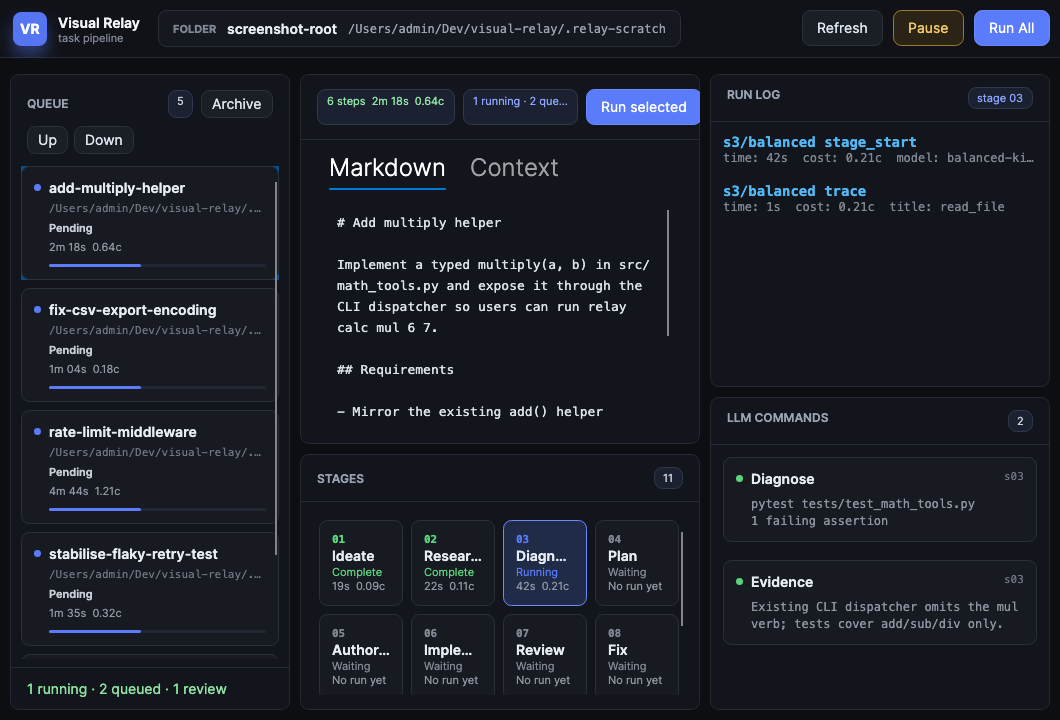
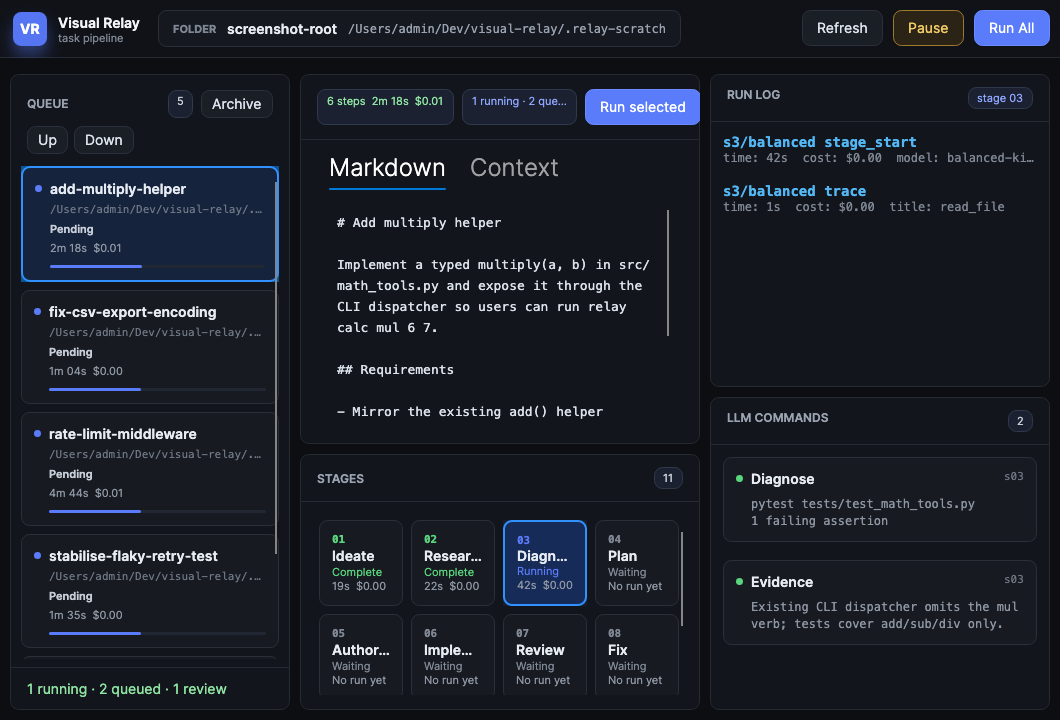
fix: clarify active states and dollar costs

diff --git a/tools/VisualRelay.Screenshots/Program.cs b/tools/VisualRelay.Screenshots/Program.cs
@@ -76,7 +76,7 @@ static MainWindowViewModel BuildViewModel()
     {
         RootPath = root,
         StatusText = "1 running · 2 queued · 1 review",
-        SelectedTaskMetricLabel = "6 steps  2m 18s  0.64c",
+        SelectedTaskMetricLabel = "6 steps  2m 18s  $0.01",
         LogScopeLabel = "stage 03"
     };
     var task = new RelayTaskItem("add-multiply-helper", taskPath, Path.GetDirectoryName(taskPath)!, false, [], CostUsd: 0.0064, DurationSeconds: 138, CompletedStageCount: 6);
@@ -93,16 +93,16 @@ static MainWindowViewModel BuildViewModel()
     viewModel.Stages[1].Status = "Done";
     viewModel.Stages[2].Status = "Running";
     viewModel.Stages[0].DurationLabel = "19s";
-    viewModel.Stages[0].CostLabel = "0.09c";
+    viewModel.Stages[0].CostLabel = "$0.00";
     viewModel.Stages[1].DurationLabel = "22s";
-    viewModel.Stages[1].CostLabel = "0.11c";
+    viewModel.Stages[1].CostLabel = "$0.00";
     viewModel.Stages[2].DurationLabel = "42s";
-    viewModel.Stages[2].CostLabel = "0.21c";
+    viewModel.Stages[2].CostLabel = "$0.00";
     viewModel.Stages[2].IsSelected = true;
     viewModel.Events.Add(new RelayEvent(DateTimeOffset.UtcNow, "info", "stage_start", "demo", root, task.Id, 3, "balanced",
-        Data: new Dictionary<string, string> { ["name"] = "Diagnose", ["model"] = "balanced-kimi", ["time"] = "42s", ["cost"] = "0.21c" }));
+        Data: new Dictionary<string, string> { ["name"] = "Diagnose", ["model"] = "balanced-kimi", ["time"] = "42s", ["cost"] = "$0.00" }));
     viewModel.Events.Add(new RelayEvent(DateTimeOffset.UtcNow.AddSeconds(-12), "info", "stage_done", "demo", root, task.Id, 2, "cheap",
-        Data: new Dictionary<string, string> { ["name"] = "Research", ["model"] = "cheap-kimi", ["time"] = "22s", ["cost"] = "0.11c" }));
+        Data: new Dictionary<string, string> { ["name"] = "Research", ["model"] = "cheap-kimi", ["time"] = "22s", ["cost"] = "$0.00" }));
     viewModel.Events.Add(new RelayEvent(DateTimeOffset.UtcNow.AddSeconds(-28), "info", "tests_written", "demo", root, task.Id, 5, "balanced"));
     viewModel.Events.Add(new RelayEvent(DateTimeOffset.UtcNow.AddSeconds(-36), "info", "plan_accepted", "demo", root, task.Id, 4, "balanced"));
     return viewModel;
@@ -123,7 +123,7 @@ static RelayTaskItem DemoTask(string root, string id, string? reviewReason = nul
 
 static void SeedTraceEntries(MainWindowViewModel viewModel)
 {
-    viewModel.SelectedTaskMetricLabel = "6 steps  2m 18s  0.64c";
+    viewModel.SelectedTaskMetricLabel = "6 steps  2m 18s  $0.01";
     viewModel.LogScopeLabel = "stage 03";
     foreach (var stage in viewModel.Stages)
     {
@@ -132,22 +132,22 @@ static void SeedTraceEntries(MainWindowViewModel viewModel)
 
     viewModel.Stages[0].Status = "Done";
     viewModel.Stages[0].DurationLabel = "19s";
-    viewModel.Stages[0].CostLabel = "0.09c";
+    viewModel.Stages[0].CostLabel = "$0.00";
     viewModel.Stages[1].Status = "Done";
     viewModel.Stages[1].DurationLabel = "22s";
-    viewModel.Stages[1].CostLabel = "0.11c";
+    viewModel.Stages[1].CostLabel = "$0.00";
     viewModel.Stages[2].Status = "Running";
     viewModel.Stages[2].DurationLabel = "42s";
-    viewModel.Stages[2].CostLabel = "0.21c";
+    viewModel.Stages[2].CostLabel = "$0.00";
     viewModel.Stages[2].IsSelected = true;
 
     var root = viewModel.RootPath;
     var taskId = viewModel.SelectedTask?.Id ?? "add-multiply-helper";
     viewModel.Events.Clear();
     viewModel.Events.Add(new RelayEvent(DateTimeOffset.UtcNow, "info", "stage_start", "demo", root, taskId, 3, "balanced",
-        Data: new Dictionary<string, string> { ["name"] = "Diagnose", ["model"] = "balanced-kimi", ["time"] = "42s", ["cost"] = "0.21c" }));
+        Data: new Dictionary<string, string> { ["name"] = "Diagnose", ["model"] = "balanced-kimi", ["time"] = "42s", ["cost"] = "$0.00" }));
     viewModel.Events.Add(new RelayEvent(DateTimeOffset.UtcNow.AddSeconds(-12), "info", "trace", "demo", root, taskId, 3, "balanced",
-        Data: new Dictionary<string, string> { ["title"] = "read_file", ["time"] = "1s", ["cost"] = "0.21c" }));
+        Data: new Dictionary<string, string> { ["title"] = "read_file", ["time"] = "1s", ["cost"] = "$0.00" }));
 
     viewModel.TraceEntries.Clear();
     viewModel.TraceEntries.Add(new TraceEntry(TraceEntryKind.ToolCall, "Diagnose", "pytest tests/test_math_tools.py\n1 failing assertion", 3));

diff --git a/src/VisualRelay.App/ViewModels/StageRowViewModel.cs b/src/VisualRelay.App/ViewModels/StageRowViewModel.cs
@@ -1,3 +1,4 @@
+using Avalonia;
 using Avalonia.Media;
 using VisualRelay.Domain;
 
@@ -10,10 +11,12 @@ public sealed class StageRowViewModel : ViewModelBase
     private static readonly IBrush RunningBrush = Brush.Parse("#5B7CFA");
     private static readonly IBrush FlaggedBrush = Brush.Parse("#F36F63");
     private static readonly IBrush WaitingCardBrush = Brush.Parse("#171A20");
-    private static readonly IBrush ActiveCardBrush = Brush.Parse("#1D263E");
-    private static readonly IBrush SelectedCardBrush = Brush.Parse("#202B48");
+    private static readonly IBrush ActiveCardBrush = Brush.Parse("#18233B");
+    private static readonly IBrush SelectedCardBrush = Brush.Parse("#162B57");
     private static readonly IBrush WaitingBorderBrush = Brush.Parse("#2A303A");
-    private static readonly IBrush SelectedBorderBrush = Brush.Parse("#6B8BFF");
+    private static readonly IBrush SelectedBorderBrush = Brush.Parse("#3191FF");
+    private static readonly BoxShadows NoShadow = BoxShadows.Parse("0 0 0 0 #00000000");
+    private static readonly BoxShadows SelectedShadow = BoxShadows.Parse("0 0 20 0 #553F8CFF");
 
     public StageRowViewModel(RelayStageDefinition stage)
     {
@@ -38,6 +41,8 @@ public sealed class StageRowViewModel : ViewModelBase
     };
     public IBrush CardBackgroundBrush => IsSelected ? SelectedCardBrush : Status == "Running" ? ActiveCardBrush : WaitingCardBrush;
     public IBrush BorderBrush => IsSelected ? SelectedBorderBrush : Status == "Running" ? RunningBrush : WaitingBorderBrush;
+    public Thickness CardBorderThickness => IsSelected ? new Thickness(2) : new Thickness(1);
+    public BoxShadows CardShadow => IsSelected ? SelectedShadow : NoShadow;
 
     private string _status = "Waiting";
     private bool _isSelected;
@@ -55,6 +60,8 @@ public sealed class StageRowViewModel : ViewModelBase
                 OnPropertyChanged(nameof(AccentBrush));
                 OnPropertyChanged(nameof(CardBackgroundBrush));
                 OnPropertyChanged(nameof(BorderBrush));
+                OnPropertyChanged(nameof(CardBorderThickness));
+                OnPropertyChanged(nameof(CardShadow));
             }
         }
     }
@@ -68,6 +75,8 @@ public sealed class StageRowViewModel : ViewModelBase
             {
                 OnPropertyChanged(nameof(CardBackgroundBrush));
                 OnPropertyChanged(nameof(BorderBrush));
+                OnPropertyChanged(nameof(CardBorderThickness));
+                OnPropertyChanged(nameof(CardShadow));
             }
         }
     }

diff --git a/src/VisualRelay.Domain/MoneyFormatter.cs b/src/VisualRelay.Domain/MoneyFormatter.cs
@@ -1,0 +1,12 @@
+using System.Globalization;
+
+namespace VisualRelay.Domain;
+
+public static class MoneyFormatter
+{
+    public static string Dollars(double usd)
+    {
+        var rounded = Math.Round(Math.Max(0, usd), 2, MidpointRounding.AwayFromZero);
+        return $"${rounded.ToString("0.00", CultureInfo.InvariantCulture)}";
+    }
+}

diff --git a/tests/VisualRelay.Tests/RelayCostEstimatorTests.cs b/tests/VisualRelay.Tests/RelayCostEstimatorTests.cs
@@ -1,10 +1,19 @@
 using System.Text.Json;
 using VisualRelay.Core.Costs;
+using VisualRelay.Domain;
 
 namespace VisualRelay.Tests;
 
 public sealed class RelayCostEstimatorTests
 {
+    [Fact]
+    public void Dollars_RoundsToNearestCent()
+    {
+        Assert.Equal("$0.00", MoneyFormatter.Dollars(0.003));
+        Assert.Equal("$0.30", MoneyFormatter.Dollars(0.304));
+        Assert.Equal("$0.31", MoneyFormatter.Dollars(0.305));
+    }
+
     [Fact]
     public void EstimateReport_UsesCachedPromptTokensAndEstimatedOutput()
     {

diff --git a/src/VisualRelay.Core/Execution/RelayDriver.cs b/src/VisualRelay.Core/Execution/RelayDriver.cs
@@ -237,8 +237,8 @@ public sealed partial class RelayDriver : IRelayTaskRunner
         {
             ["name"] = stage.Name,
             ["time"] = FormatDuration(cost?.DurationSeconds > 0 ? cost.DurationSeconds : elapsed.TotalSeconds),
-            ["cost"] = $"{(cost?.CostUsd ?? 0) * 100:0.##}c",
-            ["sessionCost"] = $"{sessionCostUsd * 100:0.##}c"
+            ["cost"] = MoneyFormatter.Dollars(cost?.CostUsd ?? 0),
+            ["sessionCost"] = MoneyFormatter.Dollars(sessionCostUsd)
         };
         if (!string.IsNullOrWhiteSpace(cost?.Model))
         {

diff --git a/src/VisualRelay.Domain/RunMetrics.cs b/src/VisualRelay.Domain/RunMetrics.cs
@@ -15,7 +15,7 @@ public sealed record StageRunMetric(
     string ReportPath,
     string? TraceDirectory)
 {
-    public string CostLabel => $"{CostUsd * 100:0.##}c";
+    public string CostLabel => MoneyFormatter.Dollars(CostUsd);
     public string DurationLabel => FormatDuration(DurationSeconds);
     public string DetailLabel => $"{DurationLabel}  {CostLabel}";
 
@@ -39,7 +39,7 @@ public sealed record TaskRunMetric(
     public double CostUsd => Stages.Sum(stage => stage.CostUsd);
     public double DurationSeconds => Stages.Sum(stage => stage.DurationSeconds);
     public int CompletedStageCount => Stages.Count;
-    public string CostLabel => CompletedStageCount == 0 ? "No cost yet" : $"{CostUsd * 100:0.##}c";
+    public string CostLabel => CompletedStageCount == 0 ? "No cost yet" : MoneyFormatter.Dollars(CostUsd);
     public string DurationLabel => CompletedStageCount == 0 ? "No run yet" : FormatDuration(DurationSeconds);
     public string SummaryLabel => CompletedStageCount == 0
         ? "No run history"

diff --git a/src/VisualRelay.Domain/RelayTaskItem.cs b/src/VisualRelay.Domain/RelayTaskItem.cs
@@ -15,7 +15,7 @@ public sealed record RelayTaskItem(
 {
     public bool NeedsReview => !string.IsNullOrWhiteSpace(ReviewReason);
     public string StateLabel => IsArchived ? "Completed" : NeedsReview ? "Needs review" : "Pending";
-    public string CostLabel => CompletedStageCount == 0 ? "No cost yet" : $"{CostUsd * 100:0.##}c";
+    public string CostLabel => CompletedStageCount == 0 ? "No cost yet" : MoneyFormatter.Dollars(CostUsd);
     public string DurationLabel => CompletedStageCount == 0 ? "No run yet" : FormatDuration(DurationSeconds);
     public string MetricsLine => CompletedStageCount == 0 ? "No run history" : $"{DurationLabel}  {CostLabel}";
 

diff --git a/tests/VisualRelay.Tests/RelayTaskRepositoryTests.cs b/tests/VisualRelay.Tests/RelayTaskRepositoryTests.cs
@@ -73,7 +73,7 @@ public sealed class RelayTaskRepositoryTests
         Assert.Equal(1, task.CompletedStageCount);
         Assert.Equal(2.5, task.DurationSeconds, precision: 2);
         Assert.True(task.CostUsd > 0);
-        Assert.Contains("c", task.MetricsLine, StringComparison.Ordinal);
+        Assert.Contains("$", task.MetricsLine, StringComparison.Ordinal);
     }
 
     [Fact]

diff --git a/PROGRESS.md b/PROGRESS.md
@@ -65,8 +65,13 @@ Tooling rails are in place: `./visual-relay check` passes, Nix shell resolves .N
 
 ## 2026-05-31 Cost, Archive, And Step Logs
 - Added a C# cost estimator that matches Relay's report-based pricing model: prompt tokens are read from Swival timelines, cache hits from report stats, and output tokens are estimated from answer length plus turn count.
-- Task cards and the task header now show run time and cents; stage cards show per-step time and cents.
+- Task cards and the task header now show run time and rounded dollar cost; stage cards show per-step time and rounded dollar cost.
 - Added archive mode for `llm-tasks/completed/batch-*`, including nested completed task folders with sibling context files.
 - Stage cards now act as log filters: selecting a stage narrows the run log and LLM command pane to that step, and selecting the same stage again restores the full task log.
 - Active task and active stage styling were strengthened with selected borders, darker selected surfaces, and clearer scope chips.
 - Verification added for archive toggling, run-history metrics, cost estimation, and stage-log filter toggling.
+
+## 2026-05-31 Active State And Dollar Costs
+- Compared the Visual Relay selected queue card against the reference active state and moved the styling closer: full bright outline, blue left rail, selected fill, and a subtle glow.
+- Strengthened selected stage cards with the same brighter outline/glow language so stage log filtering is visually obvious.
+- Replaced cent labels with rounded dollar labels everywhere (`$0.30`, `$0.00` for sub-cent estimates), including task cards, stage cards, run events, screenshots, and tests.

diff --git a/README.md b/README.md
@@ -48,7 +48,7 @@ nix develop
 - Runs one task at a time through the Relay stage model with `.relay/ACTIVE`, ledger, manifest, seal, event, report, and trace artifacts.
 - Shows native root selection, queue/archive controls, task markdown/context, stage status, structured run logs, and parsed LLM tool calls in a dense command-center layout.
 - Streams Swival trace events into the GUI as assistant text, tool calls, tool results, and thinking records.
-- Estimates time and cents per task and per stage from Swival reports, using Relay's current pricing model.
+- Estimates time and rounded dollar cost per task and per stage from Swival reports, using Relay's current pricing model.
 - Lets stage cards act as log filters: click a stage for that step's events/traces, click it again to return to the full task log.
 - Marks committed tasks `DONE-` and archives batch tasks under `llm-tasks/completed/batch-N`.
 - Uses Verify-supplied Conventional Commit subjects when available and allows the final staged set to be a subset of the manifest, matching current Relay behavior.

diff --git a/docs/DESIGN.md b/docs/DESIGN.md
@@ -34,7 +34,7 @@ Each stage carries its tier, file access scope, command scope, prompt, and JSON 
 - Root bar: selected repository, browse button, refresh button, install/config status.
 - Queue column: pending, needs-review, and archived completed tasks, review reason, task-level time/cost, button reorder, start selected, drain queue, pause/resume.
 - Task detail: task markdown preview, nested context files, status, manifest, proof artifacts.
-- Stage timeline: current stage, active selection, attempts, tier escalation, red/green checks, elapsed time, and cents.
+- Stage timeline: current stage, active selection, attempts, tier escalation, red/green checks, elapsed time, and rounded dollar cost.
 - LLM command pane: rendered trace records with assistant text, tool calls, and tool results.
 - Run log pane: structured events filtered by task, stage, level, and run id; clicking a stage toggles between that stage log and the full task log.
 